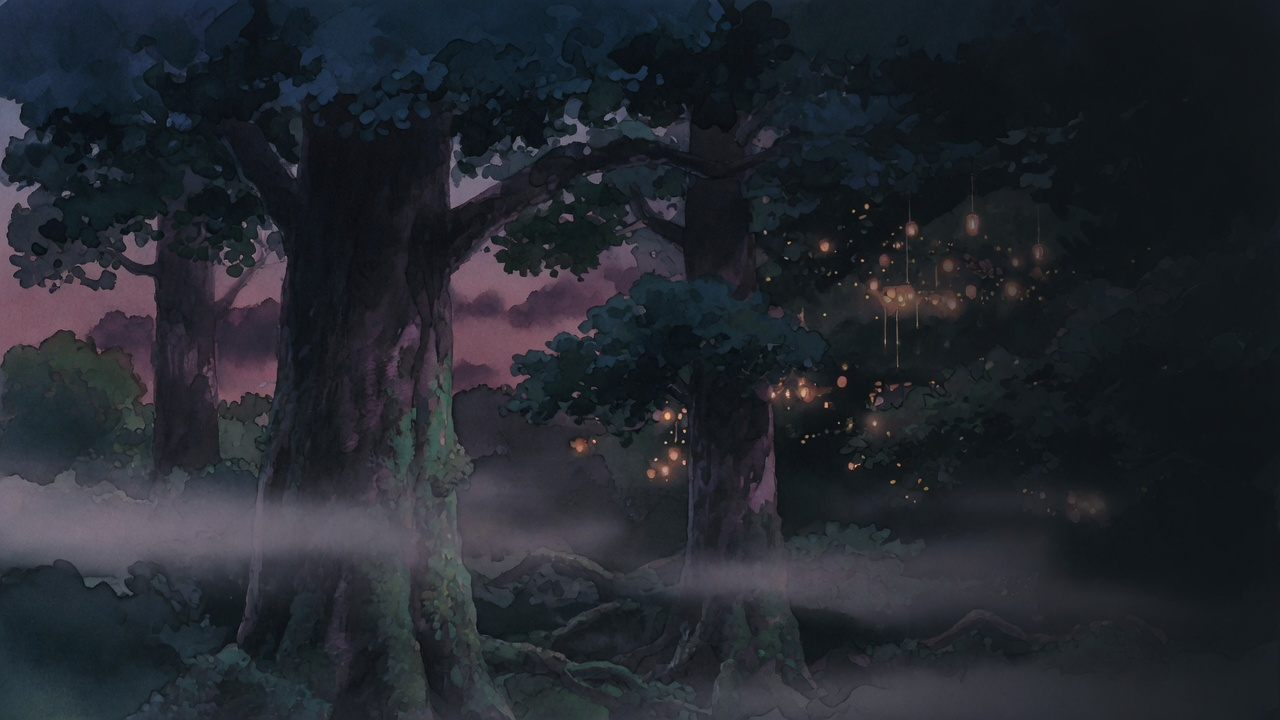
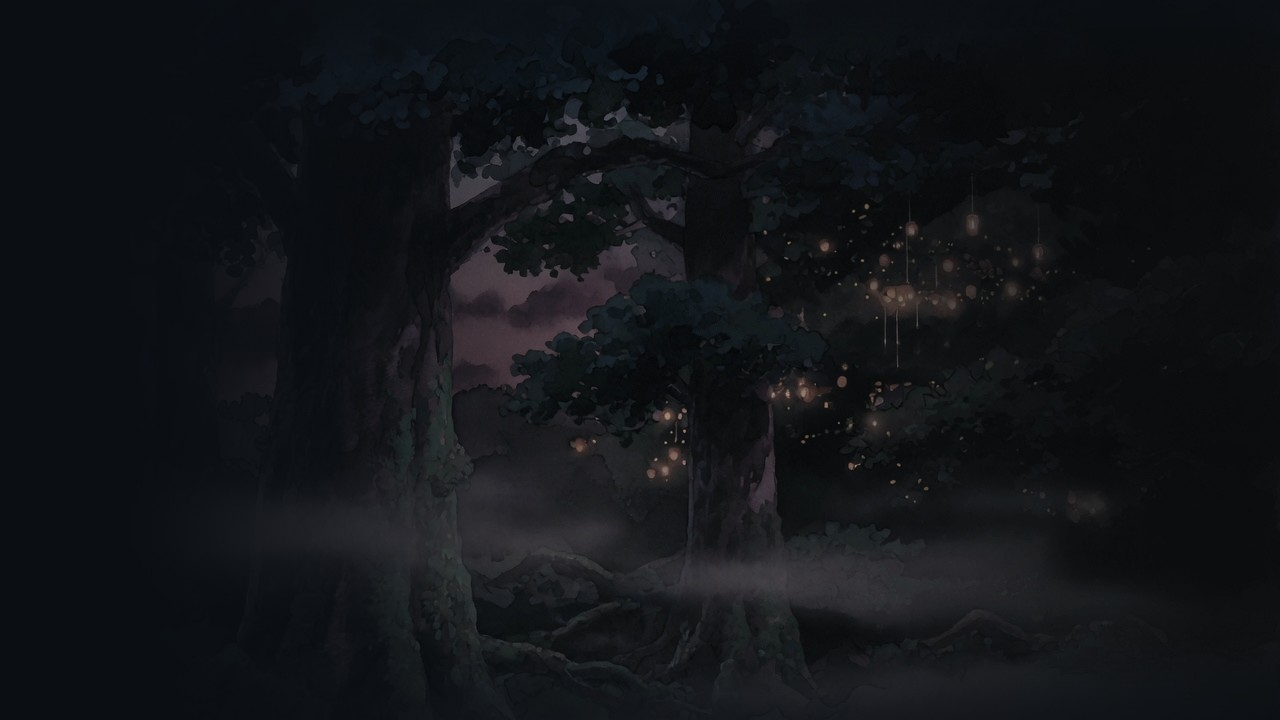
Blend Elbaph art into the title slide instead of a hard crop.
Right-side only, soft left fade, lighten blend, and a pre-darkened
asset so it reads as atmosphere on the dark background.

diff --git a/assets/css/style.scss b/assets/css/style.scss
@@ -2016,36 +2016,51 @@ body.nav-open {
   }
 }
 
-/* Title slide: full-bleed Elbaph background, text on a left scrim */
+/* Title slide: Elbaph on the right, blended into the slide bg (no hard photo edge) */
 .talk-slide--elbaph {
   position: relative;
   overflow: hidden;
-  background-color: var(--bg);
-  background-image: var(--elbaph-art);
-  background-size: cover;
-  background-position: 58% 40%;
-  background-repeat: no-repeat;
 }
 
-.talk-slide--elbaph::before {
-  content: "";
+.talk-elbaph {
   position: absolute;
   inset: 0;
   z-index: 0;
-  /* Keep type readable; let the right side of the art show through */
-  background: linear-gradient(
-    105deg,
-    var(--bg) 0%,
-    color-mix(in srgb, var(--bg) 92%, transparent) 38%,
-    color-mix(in srgb, var(--bg) 55%, transparent) 62%,
-    color-mix(in srgb, var(--bg) 28%, transparent) 100%
+  pointer-events: none;
+  overflow: hidden;
+}
+
+.talk-elbaph__art {
+  position: absolute;
+  top: 0;
+  right: 0;
+  width: min(52%, 30rem);
+  height: 100%;
+  object-fit: cover;
+  object-position: 60% 40%;
+  opacity: 0.55;
+  /* Dissolve into the dark slide instead of looking pasted */
+  mix-blend-mode: lighten;
+  -webkit-mask-image: linear-gradient(
+    to left,
+    #000 0%,
+    #000 35%,
+    rgba(0, 0, 0, 0.45) 65%,
+    transparent 100%
+  );
+  mask-image: linear-gradient(
+    to left,
+    #000 0%,
+    #000 35%,
+    rgba(0, 0, 0, 0.45) 65%,
+    transparent 100%
   );
 }
 
 .talk-slide__fore {
   position: relative;
   z-index: 1;
-  max-width: min(36rem, 58%);
+  max-width: min(34rem, 56%);
 }
 
 .talk-elbaph__welcome {
@@ -2057,12 +2072,13 @@ body.nav-open {
   color: var(--ink-3);
 }
 
-.talk-page.is-presenting .talk-slide--elbaph {
-  background-position: 62% 38%;
+.talk-page.is-presenting .talk-elbaph__art {
+  width: min(48%, 34rem);
+  opacity: 0.5;
 }
 
 .talk-page.is-presenting .talk-slide__fore {
-  max-width: min(40rem, 55%);
+  max-width: min(38rem, 52%);
 }
 
 .talk-page.is-presenting .talk-elbaph__welcome {
@@ -2070,16 +2086,12 @@ body.nav-open {
 }
 
 @media (max-width: 800px) {
-  .talk-slide__fore {
-    max-width: 100%;
+  .talk-elbaph__art {
+    width: 70%;
+    opacity: 0.35;
   }
 
-  .talk-slide--elbaph::before {
-    background: linear-gradient(
-      180deg,
-      color-mix(in srgb, var(--bg) 88%, transparent) 0%,
-      color-mix(in srgb, var(--bg) 72%, transparent) 55%,
-      color-mix(in srgb, var(--bg) 45%, transparent) 100%
-    );
+  .talk-slide__fore {
+    max-width: 100%;
   }
 }

diff --git a/talks/sysconf-2026.md b/talks/sysconf-2026.md
@@ -33,12 +33,18 @@ image: /assets/images/nitrocode-og-v2.png
   <p class="talk-keys">Present · <kbd>P</kbd> or button · Navigate <kbd>→</kbd> <kbd>←</kbd> · Esc exits · Deep link <code>?present=1</code></p>
 </div>
 
-<section
-  class="talk-slide talk-slide--elbaph is-active"
-  id="s01"
-  data-slide="1"
-  style="--elbaph-art: url('{{ '/assets/talks/elbaph-ghibli.jpg?v=' | append: site.github.build_revision | relative_url }}')"
->
+<section class="talk-slide talk-slide--elbaph is-active" id="s01" data-slide="1">
+  <div class="talk-elbaph" aria-hidden="true">
+    <img
+      class="talk-elbaph__art"
+      src="{{ '/assets/talks/elbaph-ghibli.jpg?v=' | append: site.github.build_revision | relative_url }}"
+      alt=""
+      width="1280"
+      height="720"
+      loading="eager"
+      decoding="async"
+    />
+  </div>
   <div class="talk-slide__fore">
     <p class="talk-slide__label">01 · Title</p>
     <p class="talk-elbaph__welcome">Welcome to Elbaph</p>
